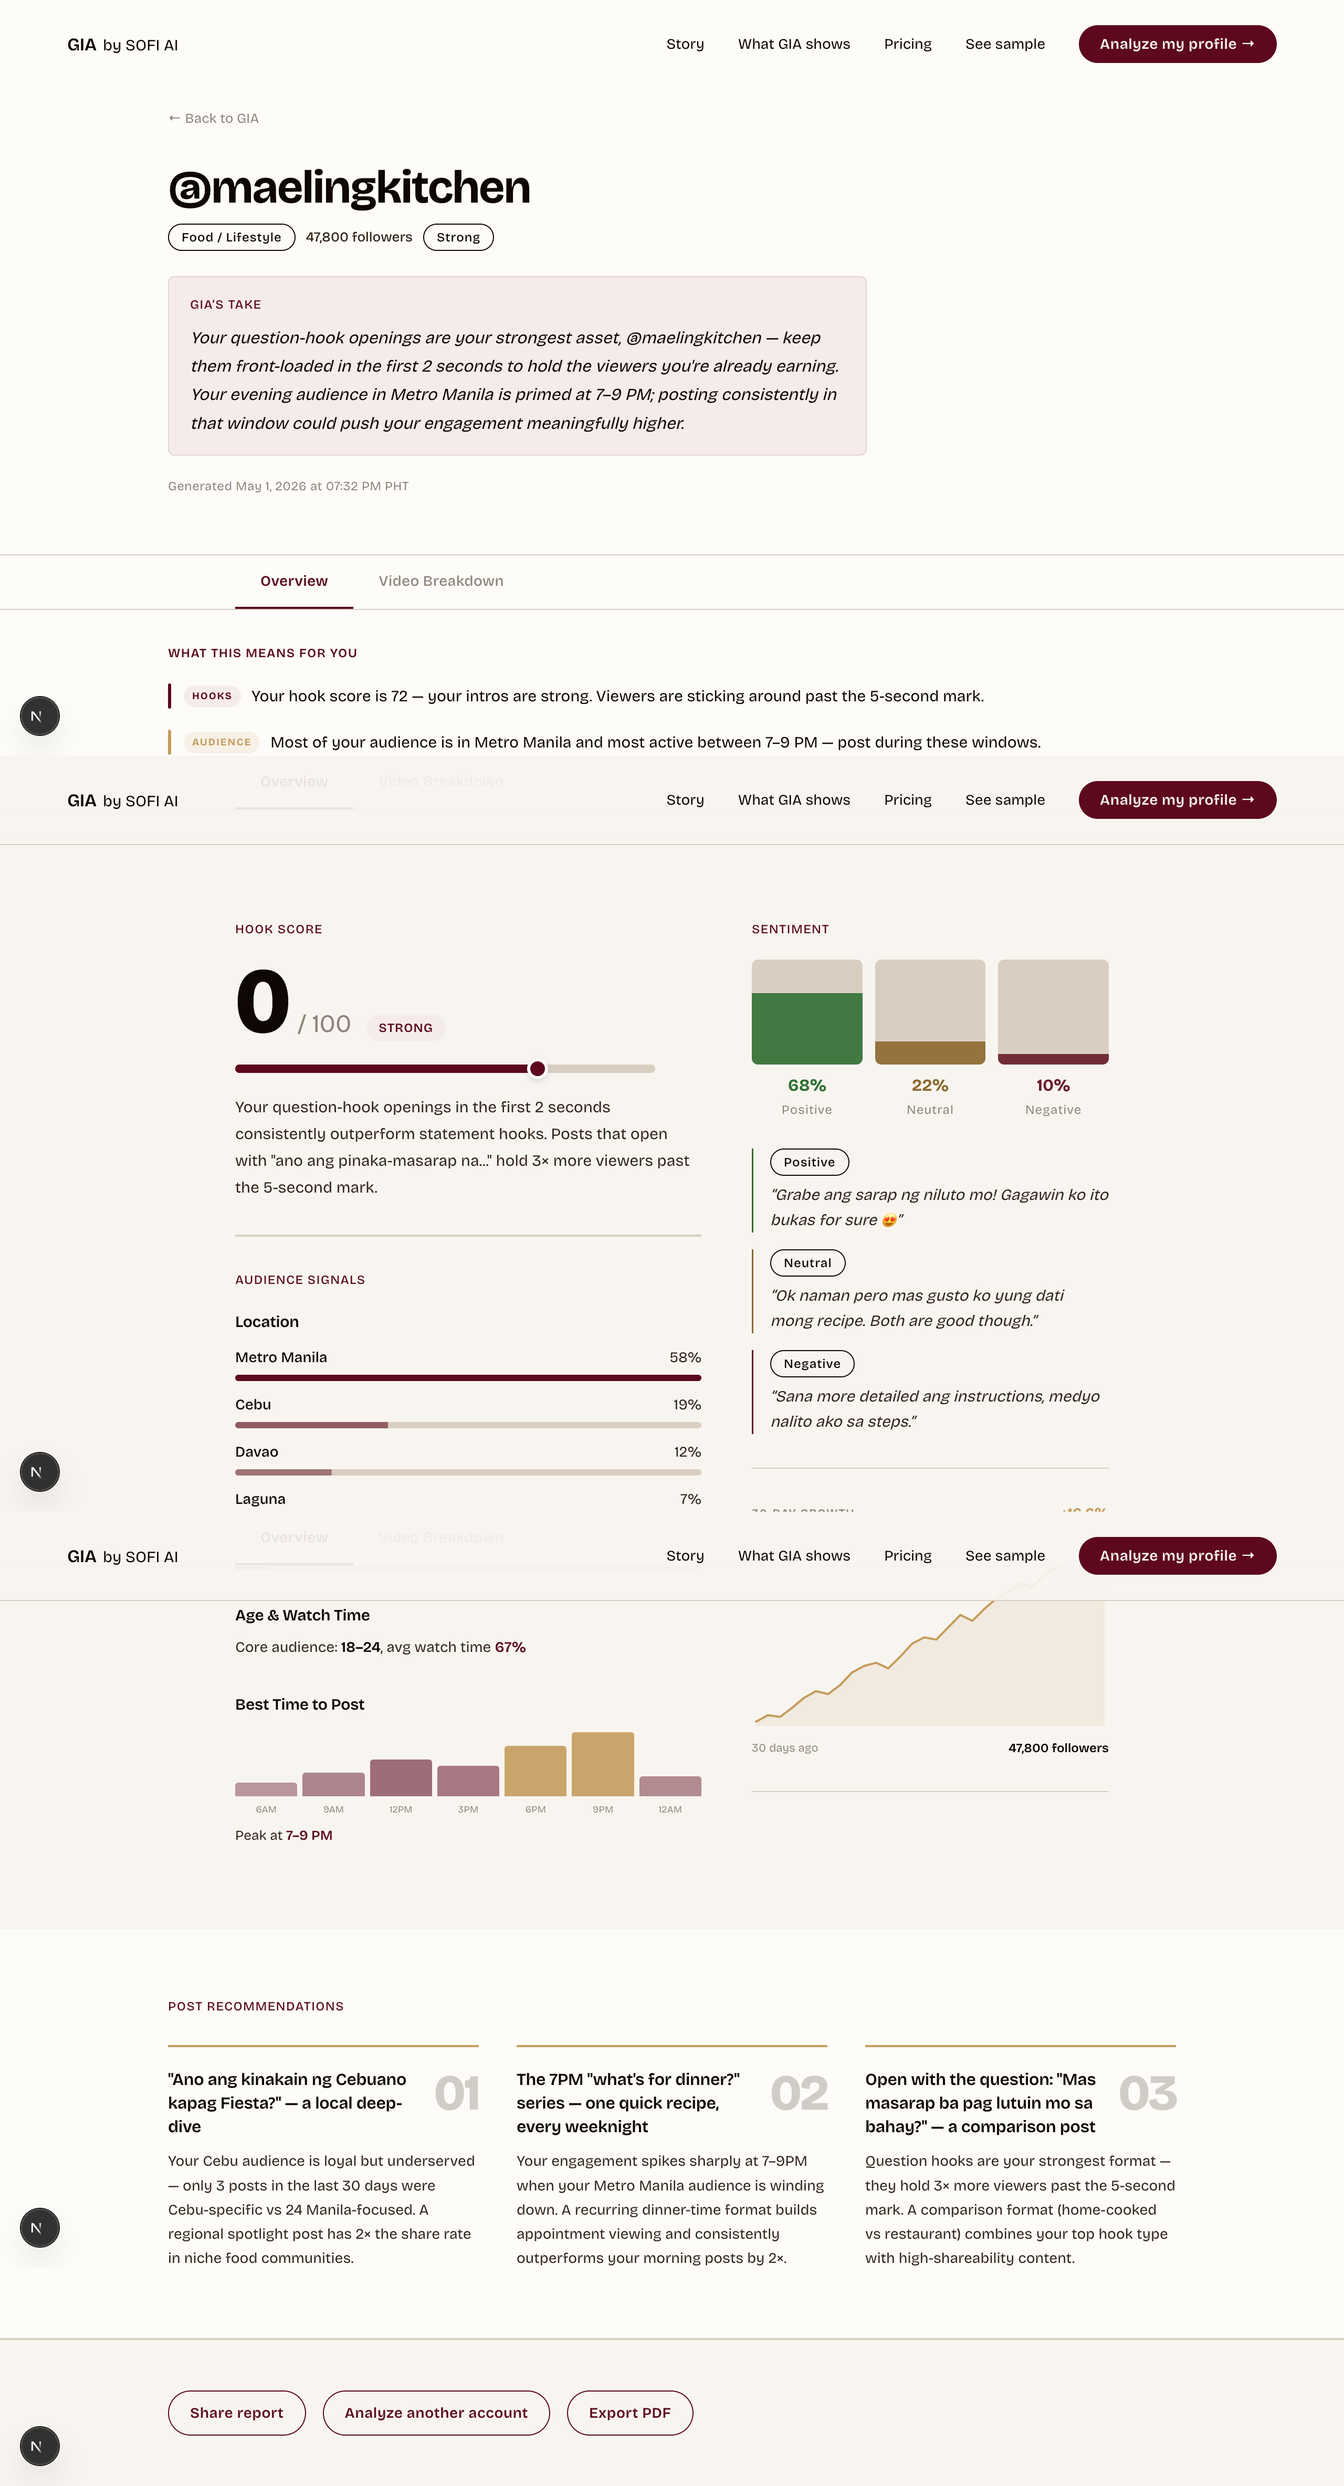
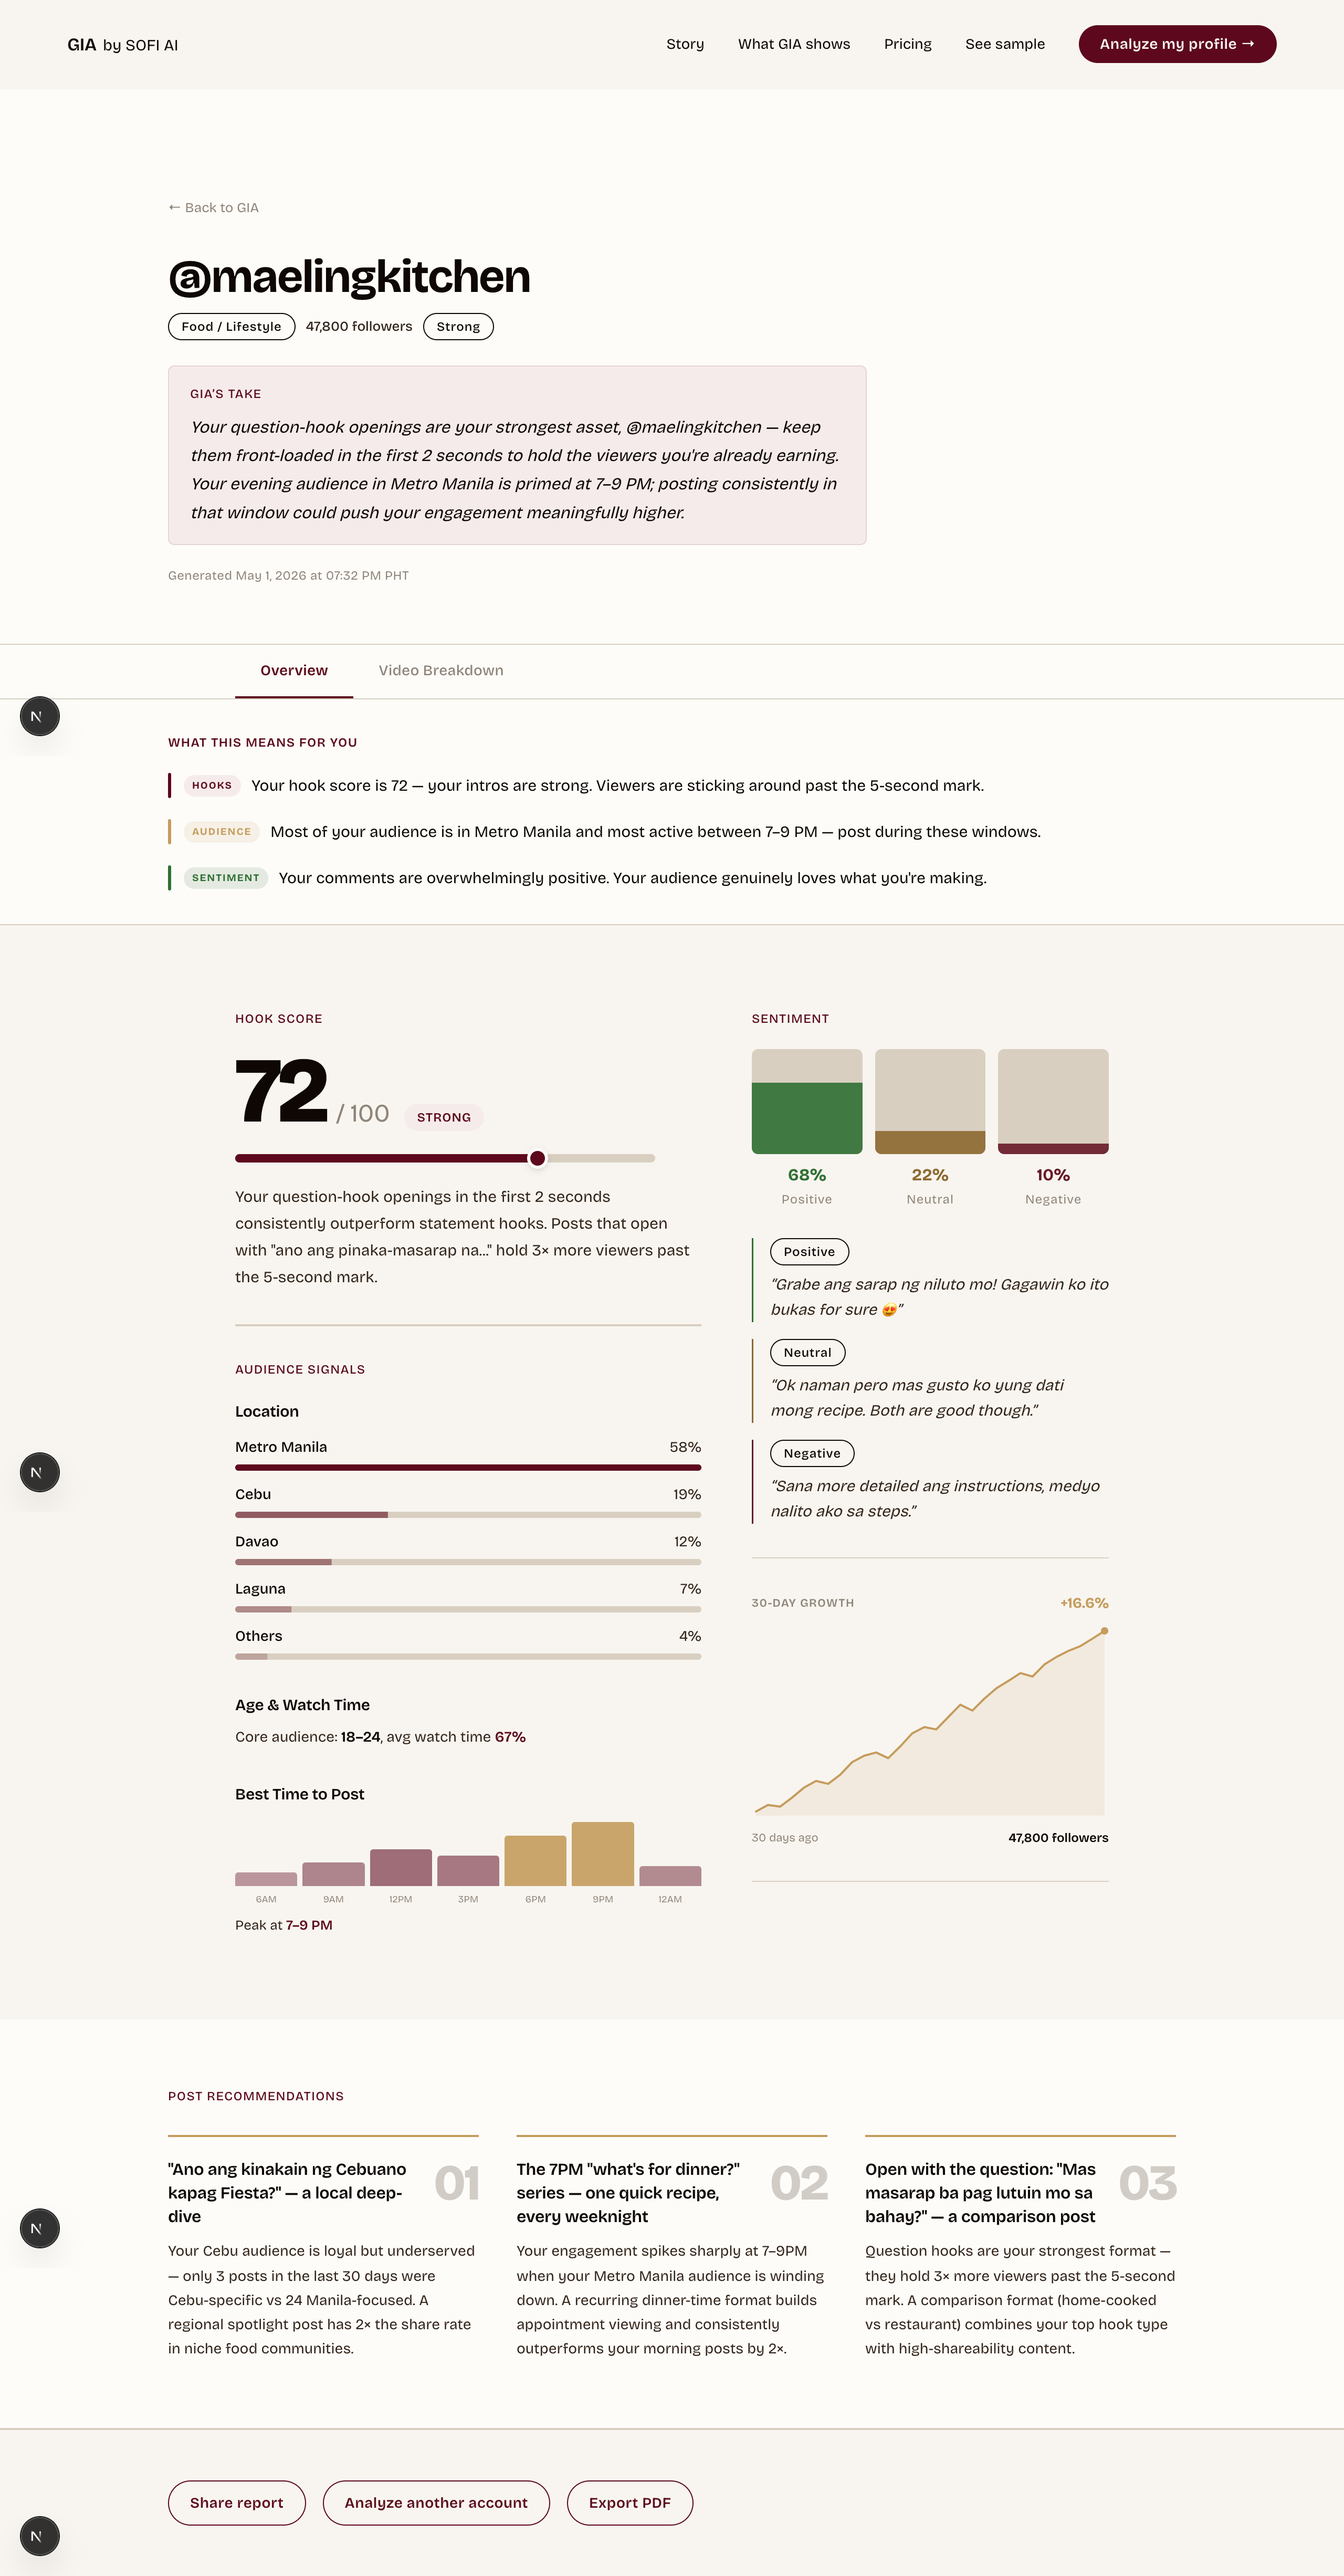
upd: fix screenshots

diff --git a/apps/web/cypress/e2e/capture_screenshots.cy.ts b/apps/web/cypress/e2e/capture_screenshots.cy.ts
@@ -4,10 +4,32 @@ describe('Capture Screenshots for Progress Report', () => {
     cy.viewport(1280, 800)
   })
 
+  const captureCleanFullPage = (name: string) => {
+    // Scroll to bottom first to trigger all intersection observers/animations
+    cy.scrollTo('bottom', { duration: 1500 })
+    cy.wait(1000)
+    cy.scrollTo('top')
+    cy.wait(2000) // Wait for everything to settle
+
+    // Temporarily disable sticky/fixed positioning for full-page capture to avoid duplication
+    cy.get('nav, [style*="position: sticky"], [style*="position:sticky"]').each(($el) => {
+      cy.wrap($el).invoke('attr', 'data-original-pos', $el.css('position'))
+      cy.wrap($el).invoke('css', 'position', 'static')
+    })
+
+    cy.screenshot(name, { capture: 'fullPage' })
+
+    // Restore original positioning
+    cy.get('[data-original-pos]').each(($el) => {
+      const originalPos = $el.attr('data-original-pos')
+      cy.wrap($el).invoke('css', 'position', originalPos)
+    })
+  }
+
   it('captures landing page', () => {
     cy.visit('/')
-    cy.wait(1000) // Allow for animations/loading
-    cy.screenshot('01-landing-page', { capture: 'fullPage' })
+    cy.wait(1000) // Allow for initial load
+    captureCleanFullPage('01-landing-page')
   })
 
   it('captures analyze page', () => {
@@ -25,7 +47,7 @@ describe('Capture Screenshots for Progress Report', () => {
   it('captures sample report - overview', () => {
     cy.visit('/report/sample')
     cy.wait(2000)
-    cy.screenshot('04-report-sample-overview', { capture: 'fullPage' })
+    captureCleanFullPage('04-report-sample-overview')
   })
 
   it('captures video breakdown section', () => {
@@ -47,12 +69,12 @@ describe('Capture Screenshots for Progress Report', () => {
     cy.wait(2000) // Wait longer for expansion animation and content
 
     // Capture the full page to ensure nothing is cut off and context is preserved
-    cy.screenshot('07-video-breakdown-expanded', { capture: 'fullPage' })
+    captureCleanFullPage('07-video-breakdown-expanded')
   })
 
   it('captures sample report - different tab if applicable', () => {
     cy.visit('/report/sample')
     cy.wait(1000)
-    cy.screenshot('05-report-sample-full', { capture: 'fullPage' })
+    captureCleanFullPage('05-report-sample-full')
   })
 })
